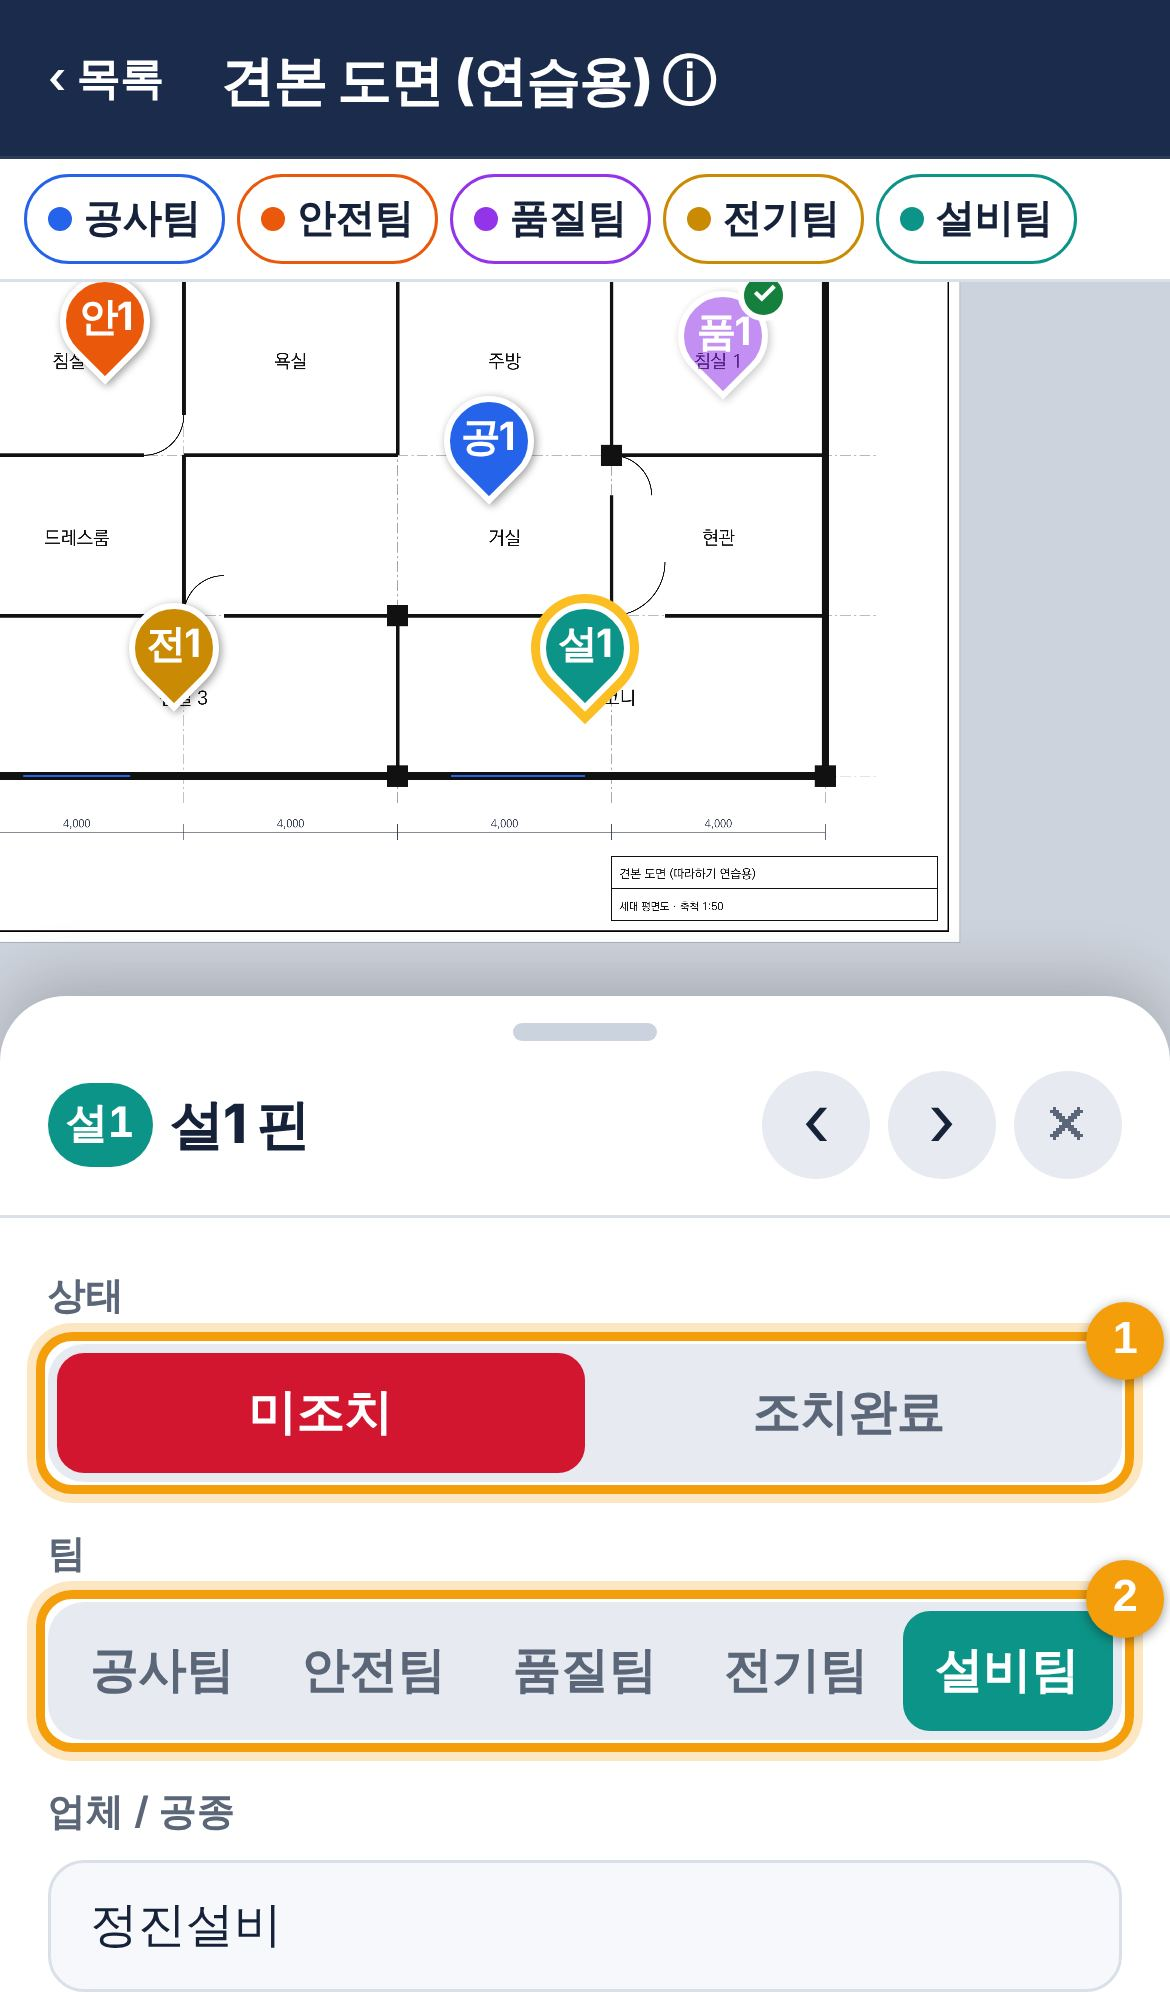
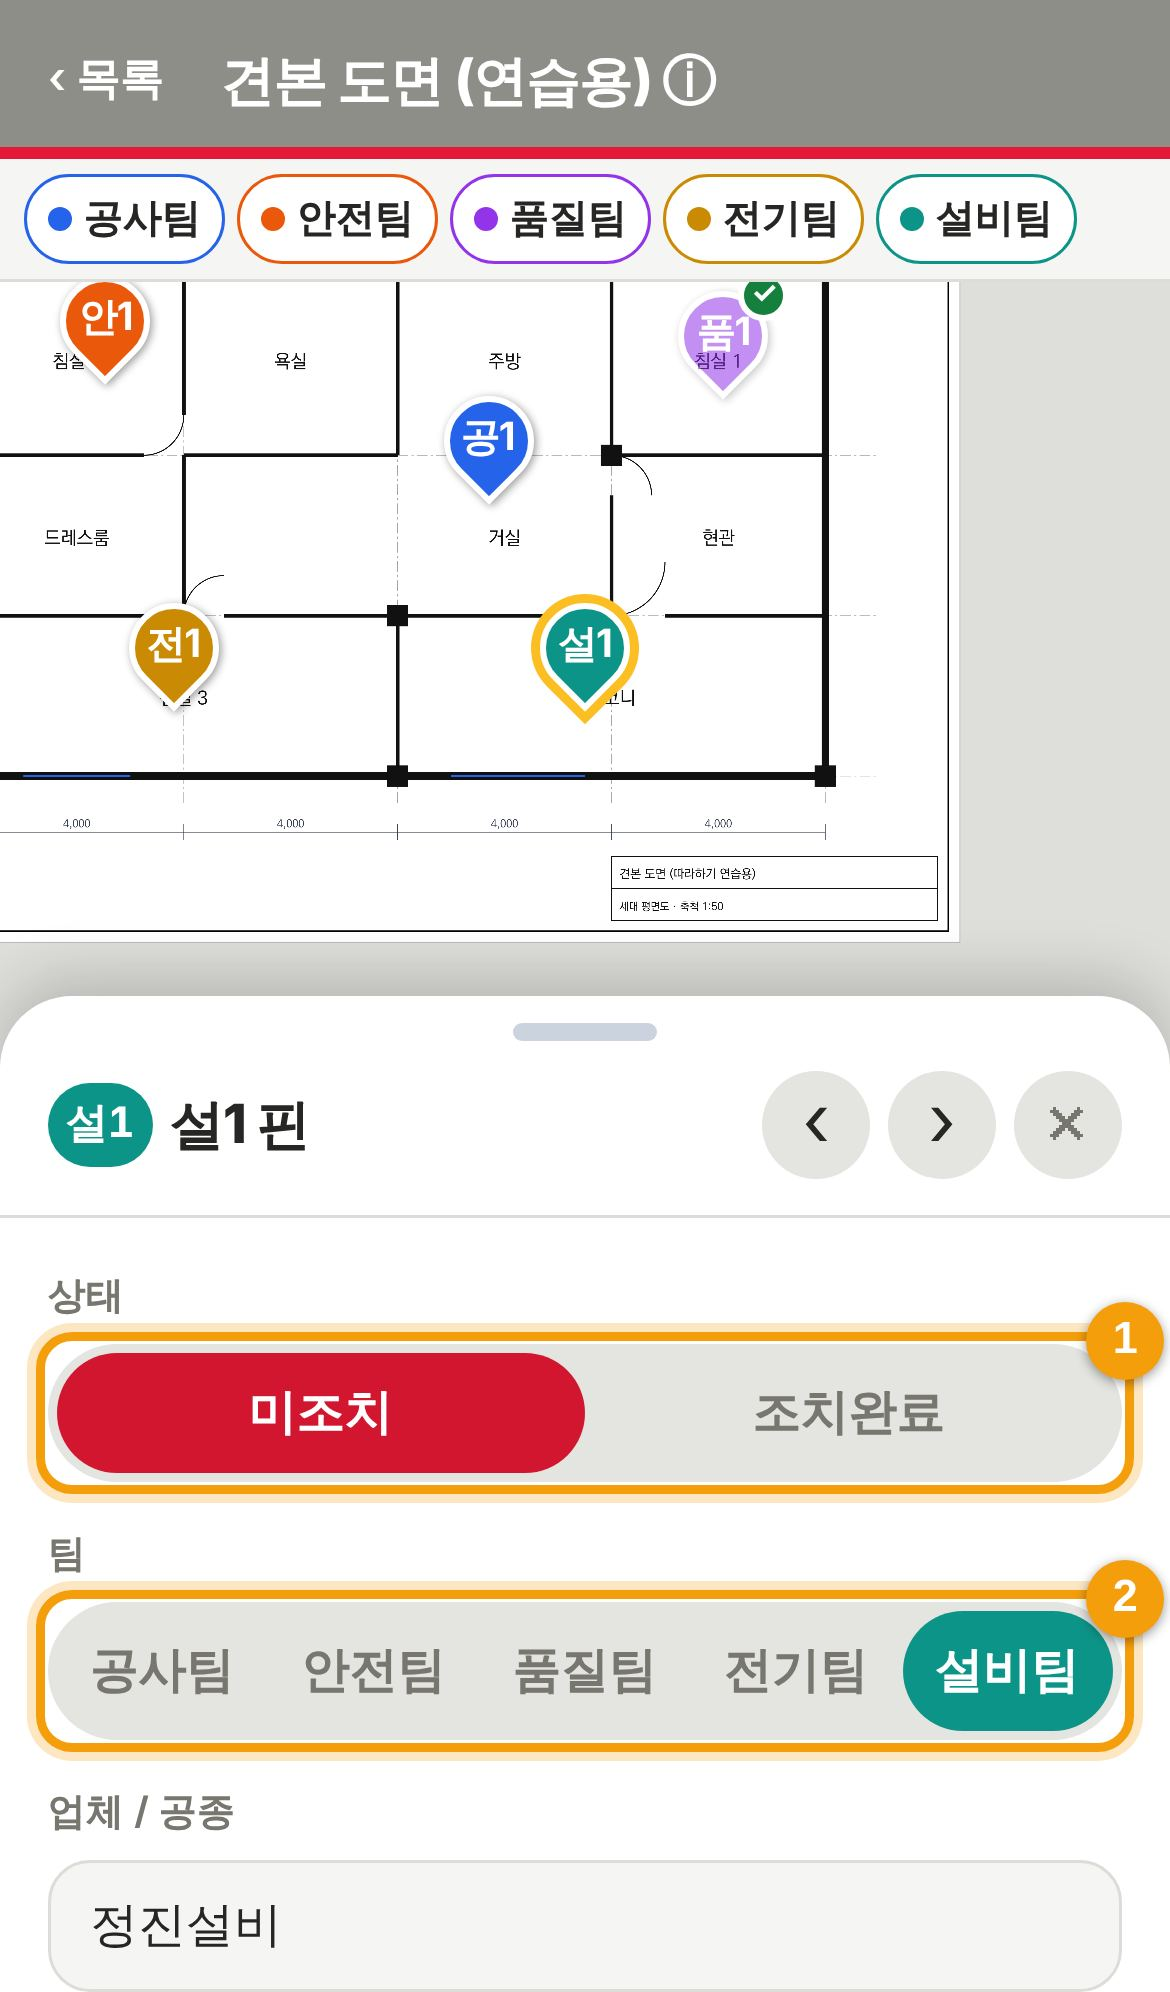
도면 핀 3.20: 시안 E 회색·빨강 디자인 적용
Claude-Session: https://claude.ai/code/session_01EtHbhsZCrxUT5zDHCagWW6

diff --git a/pins/index.html b/pins/index.html
@@ -7,7 +7,7 @@
 <link rel="manifest" href="manifest.webmanifest">
 <meta name="apple-mobile-web-app-capable" content="yes">
 <meta name="apple-mobile-web-app-title" content="도면 핀">
-<meta name="theme-color" content="#1B2B4B">
+<meta name="theme-color" content="#8E8E88">
 <link rel="apple-touch-icon" href="icon-192.png">
 <style>
 :root{
@@ -378,6 +378,41 @@ header .cloud span{max-width:84px;overflow:hidden;text-overflow:ellipsis}
 /* 사진 확대 */
 .viewer-img .imgbox{overflow:hidden;touch-action:none}
 .viewer-img img{transform-origin:0 0;will-change:transform}
+/* 3.20 시안 E: 회색·빨강 (로고 색) */
+:root{--bg:#EDEDEB;--card:#fff;--ink:#262624;--sub:#77776F;--line:#DCDCD8;--accent:#E31937;--chip:#E4E4E1;--soft:#F5F5F3;--grid:transparent}
+header{background:#8E8E88!important;color:#fff!important;box-shadow:inset 0 -4px 0 #E31937!important;position:sticky}
+#home header h1{font-size:24px;font-weight:800}
+header h1{color:#fff}
+header .hbtn{color:#fff!important;background:rgba(255,255,255,.18)!important}
+header .hbtn.ico svg{stroke:#fff}
+header #backBtn{color:#fff!important;background:none!important}
+.appver{color:rgba(255,255,255,.7)!important}
+.nbadge{box-shadow:0 0 0 2px #8E8E88;background:#E31937!important}
+#home main{background-image:none}
+.dcard{border:0;border-left:6px solid #8E8E88;border-radius:14px;padding:16px 10px 16px 16px;box-shadow:0 1px 2px rgba(0,0,0,.05),0 4px 14px rgba(0,0,0,.05)}
+.dcard .nm{font-size:17px}
+.cnt{border-radius:999px;padding:2px 9px}
+.hfilter{background:#DCDCD8!important;border-radius:999px}.hfilter button{border-radius:999px}
+.fab{background:var(--accent);border-radius:999px;box-shadow:0 10px 24px rgba(227,25,55,.3)}
+.toolbar button{border-radius:999px;background:#6F6F6A!important;color:#fff!important;box-shadow:0 6px 18px rgba(0,0,0,.18)}
+.toolbar button svg{stroke:#fff}
+#vp{background:#DEDEDB}
+.teambar,.pgbar{background:#F5F5F3}
+.tchip{border-radius:999px}
+.sheet{border-radius:24px 24px 0 0;box-shadow:inset 0 5px 0 #8E8E88,0 -8px 30px rgba(0,0,0,.18)}
+.seg{background:#E4E4E1!important}.seg,.seg button{border-radius:999px}
+.exp a,.exp button{border-radius:14px}
+.exp [data-v="share"],.row2 .ok,.tourGo{background:var(--accent)}
+.alist{background:#fff;border:0;box-shadow:0 0 0 1px var(--line)}
+.arow .ic{background:#8E8E88;box-shadow:none;color:#fff}
+.arow .ic svg{stroke:#fff}
+.inp{border-radius:14px;background:#F5F5F3}
+.toolbar button#addBtn{background:#E31937!important;border-color:#fff}
+.arow.danger .ic,.arow[data-v="delete"] .ic,.arow.del .ic{background:#FCE4E8!important;color:#E31937}
+.arow.danger .ic svg,.arow[data-v="delete"] .ic svg,.arow.del .ic svg{stroke:#E31937}
+#gate .gtop{background-color:#8E8E88;box-shadow:inset 0 -5px 0 #E31937}
+#gate .gstep b{background:#8E8E88}
+#gate .gbtn{background:#E31937}
 </style>
 </head>
 <body>
@@ -581,7 +616,7 @@ header .cloud span{max-width:84px;overflow:hidden;text-overflow:ellipsis}
 
 <script>
 "use strict";
-const APP_VER="3.19";
+const APP_VER="3.20";
 const $=s=>document.querySelector(s);
 /* 쪽 이름(예: 지하 4층). 없으면 여러 쪽일 때 'N쪽' */
 const pgName=(d,n)=>((d&&d.pageNames&&d.pageNames[n-1])||"").trim();

diff --git a/pins/sw.js b/pins/sw.js
@@ -1,5 +1,5 @@
 // 도면 하자 핀 앱: 오프라인에서도 열리도록 앱 파일을 저장해 둔다 (도면·핀 기록은 IndexedDB에 따로 저장됨)
-const CACHE="drawing-pins-v40";
+const CACHE="drawing-pins-v41";
 const FILES=["./","./index.html","./manifest.webmanifest","./icon-192.png","./icon-512.png","./dwg2pdf.js","./sample.pdf","../lib/pdfjs.min.js","../lib/pdfjs.worker.min.js","../lib/pdf-lib.min.js","../lib/fontkit.umd.min.js","../fonts/KoPubDotum-Medium.ttf"];
 self.addEventListener("install",e=>{e.waitUntil(caches.open(CACHE).then(c=>c.addAll(FILES.map(u=>new Request(u,{cache:"reload"})))));self.skipWaiting();});
 self.addEventListener("activate",e=>{e.waitUntil(caches.keys().then(ks=>Promise.all(ks.filter(k=>k.startsWith("drawing-pins-")&&k!==CACHE).map(k=>caches.delete(k)))));self.clients.claim();});
